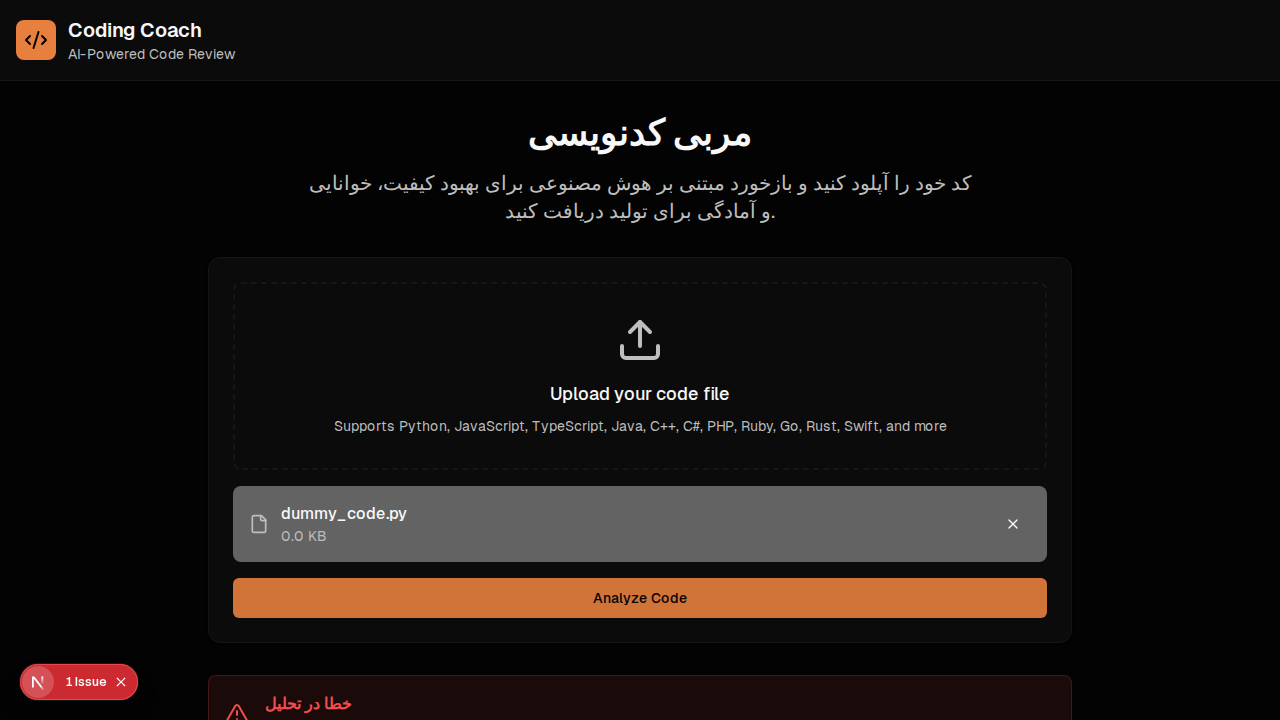
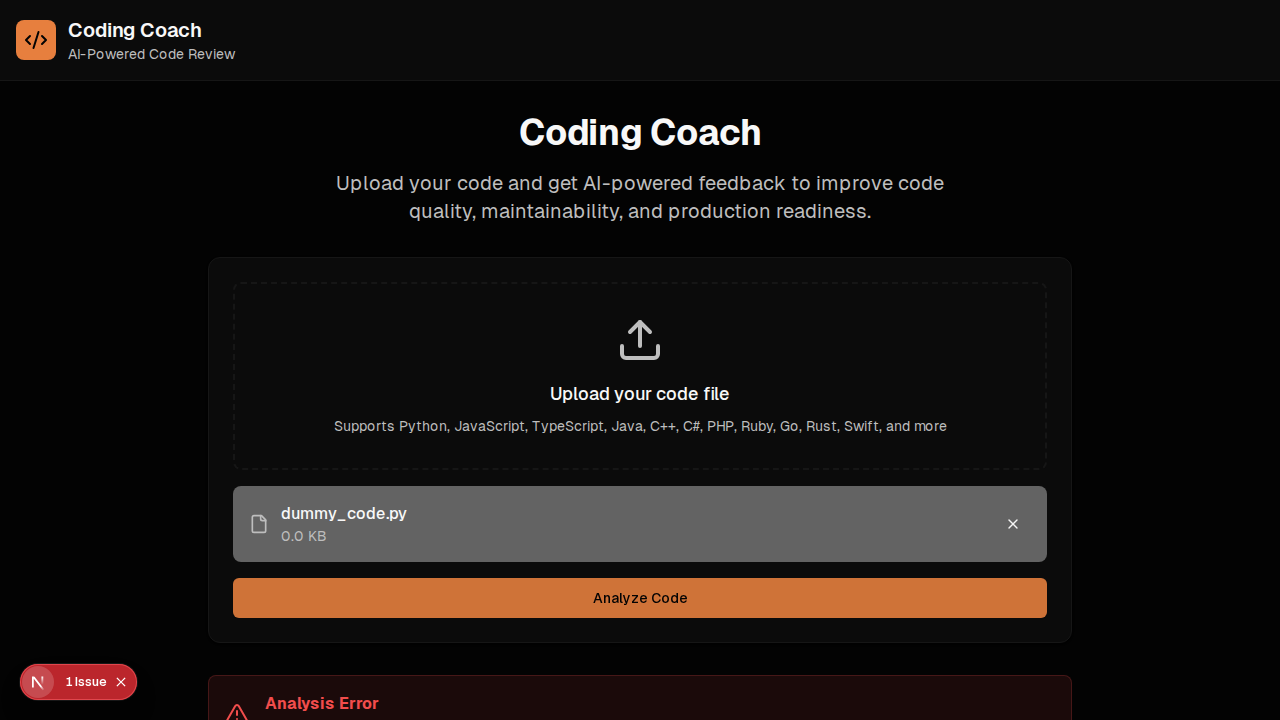
feat: Revamp UI and localize Gemini response to Persian
This commit introduces two major changes based on the user's request:
1. The Gemini API response is now requested in Persian, and the UI is updated to render it with correct RTL direction.
2. The application's color scheme has been updated to a modern black and orange theme using OKLCH colors.

Key changes include:
- Modifying the Gemini API prompt in `app/api/analyze-code/route.ts` to request responses in Persian.
- Adding `dir="rtl"` to the relevant components in `components/code-analysis.tsx` to ensure correct rendering of Persian text.
- Updating CSS variables in `app/globals.css` with the new black and orange color palette.
- Implementing frontend error handling in `app/page.tsx` to display a message if the code analysis fails.
- Reverting the UI text to English as per the user's follow-up request.

diff --git a/components/code-analysis.tsx b/components/code-analysis.tsx
@@ -16,8 +16,8 @@ export function CodeAnalysis({ result, isLoading }: CodeAnalysisProps) {
       <div className="fixed inset-0 bg-background/80 backdrop-blur-sm flex items-center justify-center z-50">
         <div className="bg-card rounded-lg p-8 border border-border text-center shadow-2xl">
           <Loader2 className="w-12 h-12 text-primary animate-spin mx-auto mb-4" />
-          <h3 className="text-lg font-medium mb-2 text-card-foreground">در حال تحلیل کد شما</h3>
-          <p className="text-sm text-muted-foreground">این ممکن است چند لحظه طول بکشد...</p>
+          <h3 className="text-lg font-medium mb-2 text-card-foreground">Analyzing Your Code</h3>
+          <p className="text-sm text-muted-foreground">This may take a moment...</p>
         </div>
       </div>
     )
@@ -47,15 +47,15 @@ export function CodeAnalysis({ result, isLoading }: CodeAnalysisProps) {
   return (
     <div className="space-y-8">
       <Card className="p-6 text-center shadow-lg">
-        <h2 className="text-2xl font-bold mb-2 text-card-foreground">امتیاز کلی</h2>
+        <h2 className="text-2xl font-bold mb-2 text-card-foreground">Overall Score</h2>
         <div className="text-6xl font-bold" style={{ color: getScoreColor(result.score) }}>
           {result.score}/100
         </div>
-        <p className="text-muted-foreground mt-3 max-w-2xl mx-auto">{result.summary}</p>
+        <p dir="rtl" className="text-muted-foreground mt-3 max-w-2xl mx-auto">{result.summary}</p>
       </Card>
 
       <Card className="p-6 shadow-lg">
-        <h3 className="text-xl font-bold mb-4 text-card-foreground">پیشنهادهای بهبود</h3>
+        <h3 className="text-xl font-bold mb-4 text-card-foreground">Improvement Suggestions</h3>
         <div className="space-y-4">
           {result.improvements.map((item, index) => (
             <div key={index} className="bg-background/50 rounded-lg p-4 border border-border transition-shadow hover:shadow-md">
@@ -63,22 +63,22 @@ export function CodeAnalysis({ result, isLoading }: CodeAnalysisProps) {
                 {getSeverityIcon(item.severity)}
                 <div className="flex-1">
                   <div className="flex items-center gap-3 mb-2">
-                    <span className="font-semibold text-card-foreground">{item.category}</span>
+                    <span dir="rtl" className="font-semibold text-card-foreground">{item.category}</span>
                     <Badge variant="secondary" className="capitalize">{item.severity}</Badge>
                   </div>
-                  <p className="text-sm text-muted-foreground mb-3">{item.issue}</p>
+                  <p dir="rtl" className="text-sm text-muted-foreground mb-3">{item.issue}</p>
 
                   {item.codeSnippet && (
                     <div className="mb-3">
                       <pre className="bg-muted p-3 rounded-md text-xs overflow-x-auto text-card-foreground border border-border">
                         <code>{item.codeSnippet}</code>
                       </pre>
-                      {item.lineNumber && <p className="text-xs text-muted-foreground mt-1">خط: {item.lineNumber}</p>}
+                      {item.lineNumber && <p className="text-xs text-muted-foreground mt-1">Line: {item.lineNumber}</p>}
                     </div>
                   )}
 
-                  <p className="text-sm" style={{ color: 'var(--success)' }}>
-                    <span className="font-semibold" style={{ color: 'var(--success)' }}>پیشنهاد:</span> {item.suggestion}
+                  <p dir="rtl" className="text-sm" style={{ color: 'var(--success)' }}>
+                    <span className="font-semibold" style={{ color: 'var(--success)' }}>Suggestion:</span> {item.suggestion}
                   </p>
                 </div>
               </div>

diff --git a/components/file-upload.tsx b/components/file-upload.tsx
@@ -63,10 +63,10 @@ export function FileUpload({ onFileAnalysis, isAnalyzing }: FileUploadProps) {
           <Upload className="h-12 w-12 text-muted-foreground mx-auto mb-4" />
           <div className="space-y-2">
             <p className="text-lg font-medium text-card-foreground">
-              {isDragActive ? "فایل کد خود را اینجا رها کنید" : "فایل کد خود را آپلود کنید"}
+              {isDragActive ? "Drop your code file here" : "Upload your code file"}
             </p>
             <p className="text-sm text-muted-foreground">
-              پشتیبانی از پایتون، جاوااسکریپت، تایپاسکریپت، جاوا، C++، C#، PHP، روبی، گو، راست، سوئیفت و موارد دیگر
+              Supports Python, JavaScript, TypeScript, Java, C++, C#, PHP, Ruby, Go, Rust, Swift, and more
             </p>
           </div>
         </div>
@@ -77,7 +77,7 @@ export function FileUpload({ onFileAnalysis, isAnalyzing }: FileUploadProps) {
               <File className="h-5 w-5 text-muted-foreground" />
               <div>
                 <p className="font-medium text-card-foreground">{selectedFile.name}</p>
-                <p className="text-sm text-muted-foreground">{(selectedFile.size / 1024).toFixed(1)} کیلوبایت</p>
+                <p className="text-sm text-muted-foreground">{(selectedFile.size / 1024).toFixed(1)} KB</p>
               </div>
             </div>
             <Button variant="ghost" size="sm" onClick={handleRemoveFile} disabled={isAnalyzing}>
@@ -87,7 +87,7 @@ export function FileUpload({ onFileAnalysis, isAnalyzing }: FileUploadProps) {
         )}
 
         <Button onClick={handleAnalyze} disabled={!selectedFile || isAnalyzing} className="w-full" size="lg">
-          {isAnalyzing ? "در حال تحلیل کد..." : "تحلیل کد"}
+          {isAnalyzing ? "Analyzing Code..." : "Analyze Code"}
         </Button>
       </div>
     </Card>

diff --git a/app/page.tsx b/app/page.tsx
@@ -63,9 +63,10 @@ export default function Home() {
       <main className="container mx-auto px-4 py-8 max-w-4xl">
         <div className="space-y-8">
           <div className="text-center space-y-4">
-            <h1 className="text-4xl font-bold text-foreground">مربی کدنویسی</h1>
+            <h1 className="text-4xl font-bold text-foreground">Coding Coach</h1>
             <p className="text-xl text-muted-foreground max-w-2xl mx-auto">
-              کد خود را آپلود کنید و بازخورد مبتنی بر هوش مصنوعی برای بهبود کیفیت، خوانایی و آمادگی برای تولید دریافت کنید.
+              Upload your code and get AI-powered feedback to improve code quality, maintainability, and production
+              readiness.
             </p>
           </div>
 
@@ -75,7 +76,7 @@ export default function Home() {
             <div className="bg-destructive/10 border border-destructive/20 text-destructive rounded-lg p-4 flex items-center gap-4">
               <AlertTriangle className="w-6 h-6" />
               <div>
-                <h4 className="font-bold">خطا در تحلیل</h4>
+                <h4 className="font-bold">Analysis Error</h4>
                 <p className="text-sm">{analysisError}</p>
               </div>
             </div>

diff --git a/components/header.tsx b/components/header.tsx
@@ -9,8 +9,8 @@ export function Header() {
             <Code2 className="h-6 w-6 text-primary-foreground" />
           </div>
           <div>
-            <h1 className="text-xl font-semibold text-card-foreground">مربی کدنویسی</h1>
-            <p className="text-sm text-muted-foreground">بررسی کد با هوش مصنوعی</p>
+            <h1 className="text-xl font-semibold text-card-foreground">Coding Coach</h1>
+            <p className="text-sm text-muted-foreground">AI-Powered Code Review</p>
           </div>
         </div>
       </div>

diff --git a/jules-scratch/verification/verify_changes.py b/jules-scratch/verification/verify_changes.py
@@ -20,10 +20,10 @@ def run(playwright):
         time.sleep(2)
 
         # Click the "Analyze Code" button
-        page.get_by_role("button", name="تحلیل کد").click()
+        page.get_by_role("button", name="Analyze Code").click()
 
         # Wait for the error message to appear
-        expect(page.get_by_role("heading", name="خطا در تحلیل")).to_be_visible(timeout=60000)
+        expect(page.get_by_role("heading", name="Analysis Error")).to_be_visible(timeout=60000)
 
         # Take a screenshot
         page.screenshot(path="jules-scratch/verification/verification.png")
